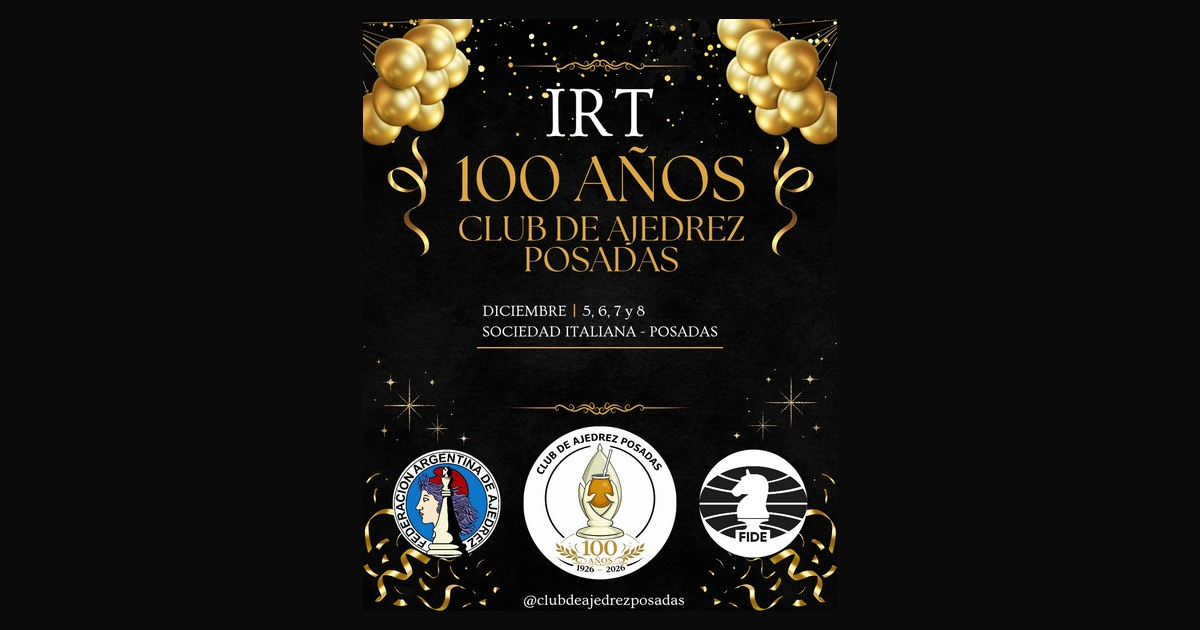
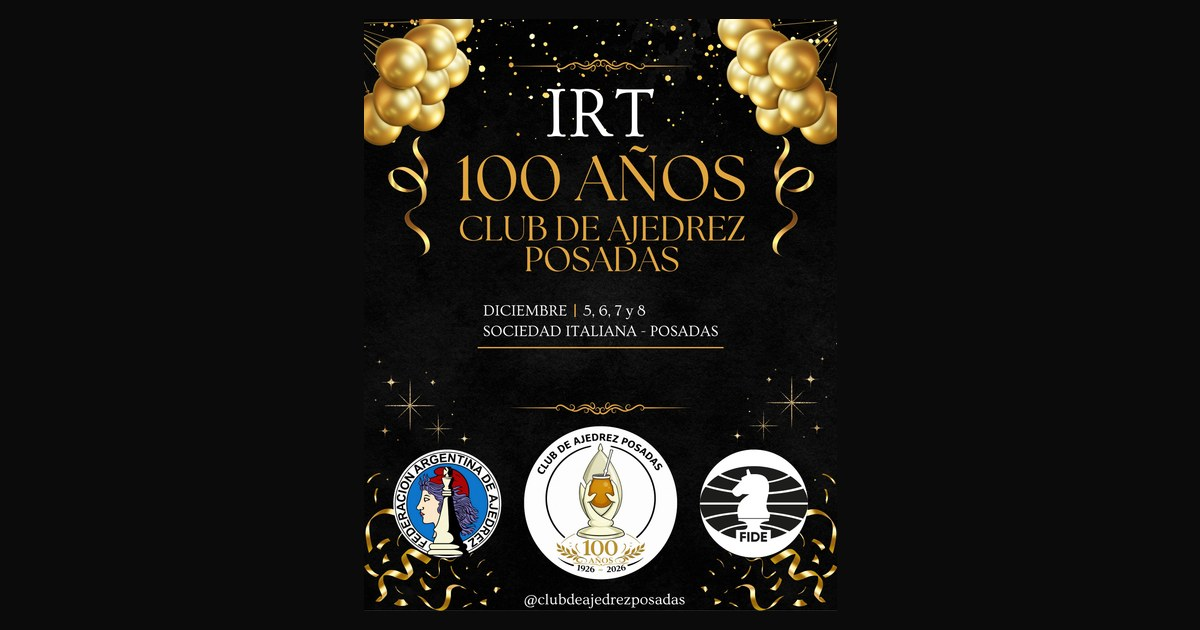
El afiche nuevo del club reemplaza al anterior
Misma pieza en mejor resolucion (2047x2560 contra 1080x1350). Entra con
nombre versionado (-2) porque la SWA cachea /img/* siete dias: pisar el
archivo dejaba el afiche viejo en el navegador de quien ya habia
entrado. La imagen de compartir og-festival.jpg se regenera del nuevo y
mantiene su nombre, que es el que WhatsApp ya tiene indexado.

diff --git a/src/data/festival.ts b/src/data/festival.ts
@@ -398,11 +398,15 @@ export const festival = {
     citaFuente: 'Estatuto social, artículo 2.º (1926)',
   },
 
-  /** Afiche oficial de difusión. */
+  /**
+   * Afiche oficial de difusión. El nombre lleva versión (-2) a propósito: la
+   * SWA cachea /img/* siete días, así que cada afiche nuevo entra con nombre
+   * nuevo para que nadie siga viendo el anterior.
+   */
   afiche: {
-    src: '/img/festival-afiche.webp',
+    src: '/img/festival-afiche-2.webp',
     alt: 'Afiche oficial del IRT "100 Años" del Club de Ajedrez Posadas: 5, 6, 7 y 8 de diciembre de 2026 en la Sociedad Italiana',
     ancho: 900,
-    alto: 1125,
+    alto: 1126,
   },
 } as const
